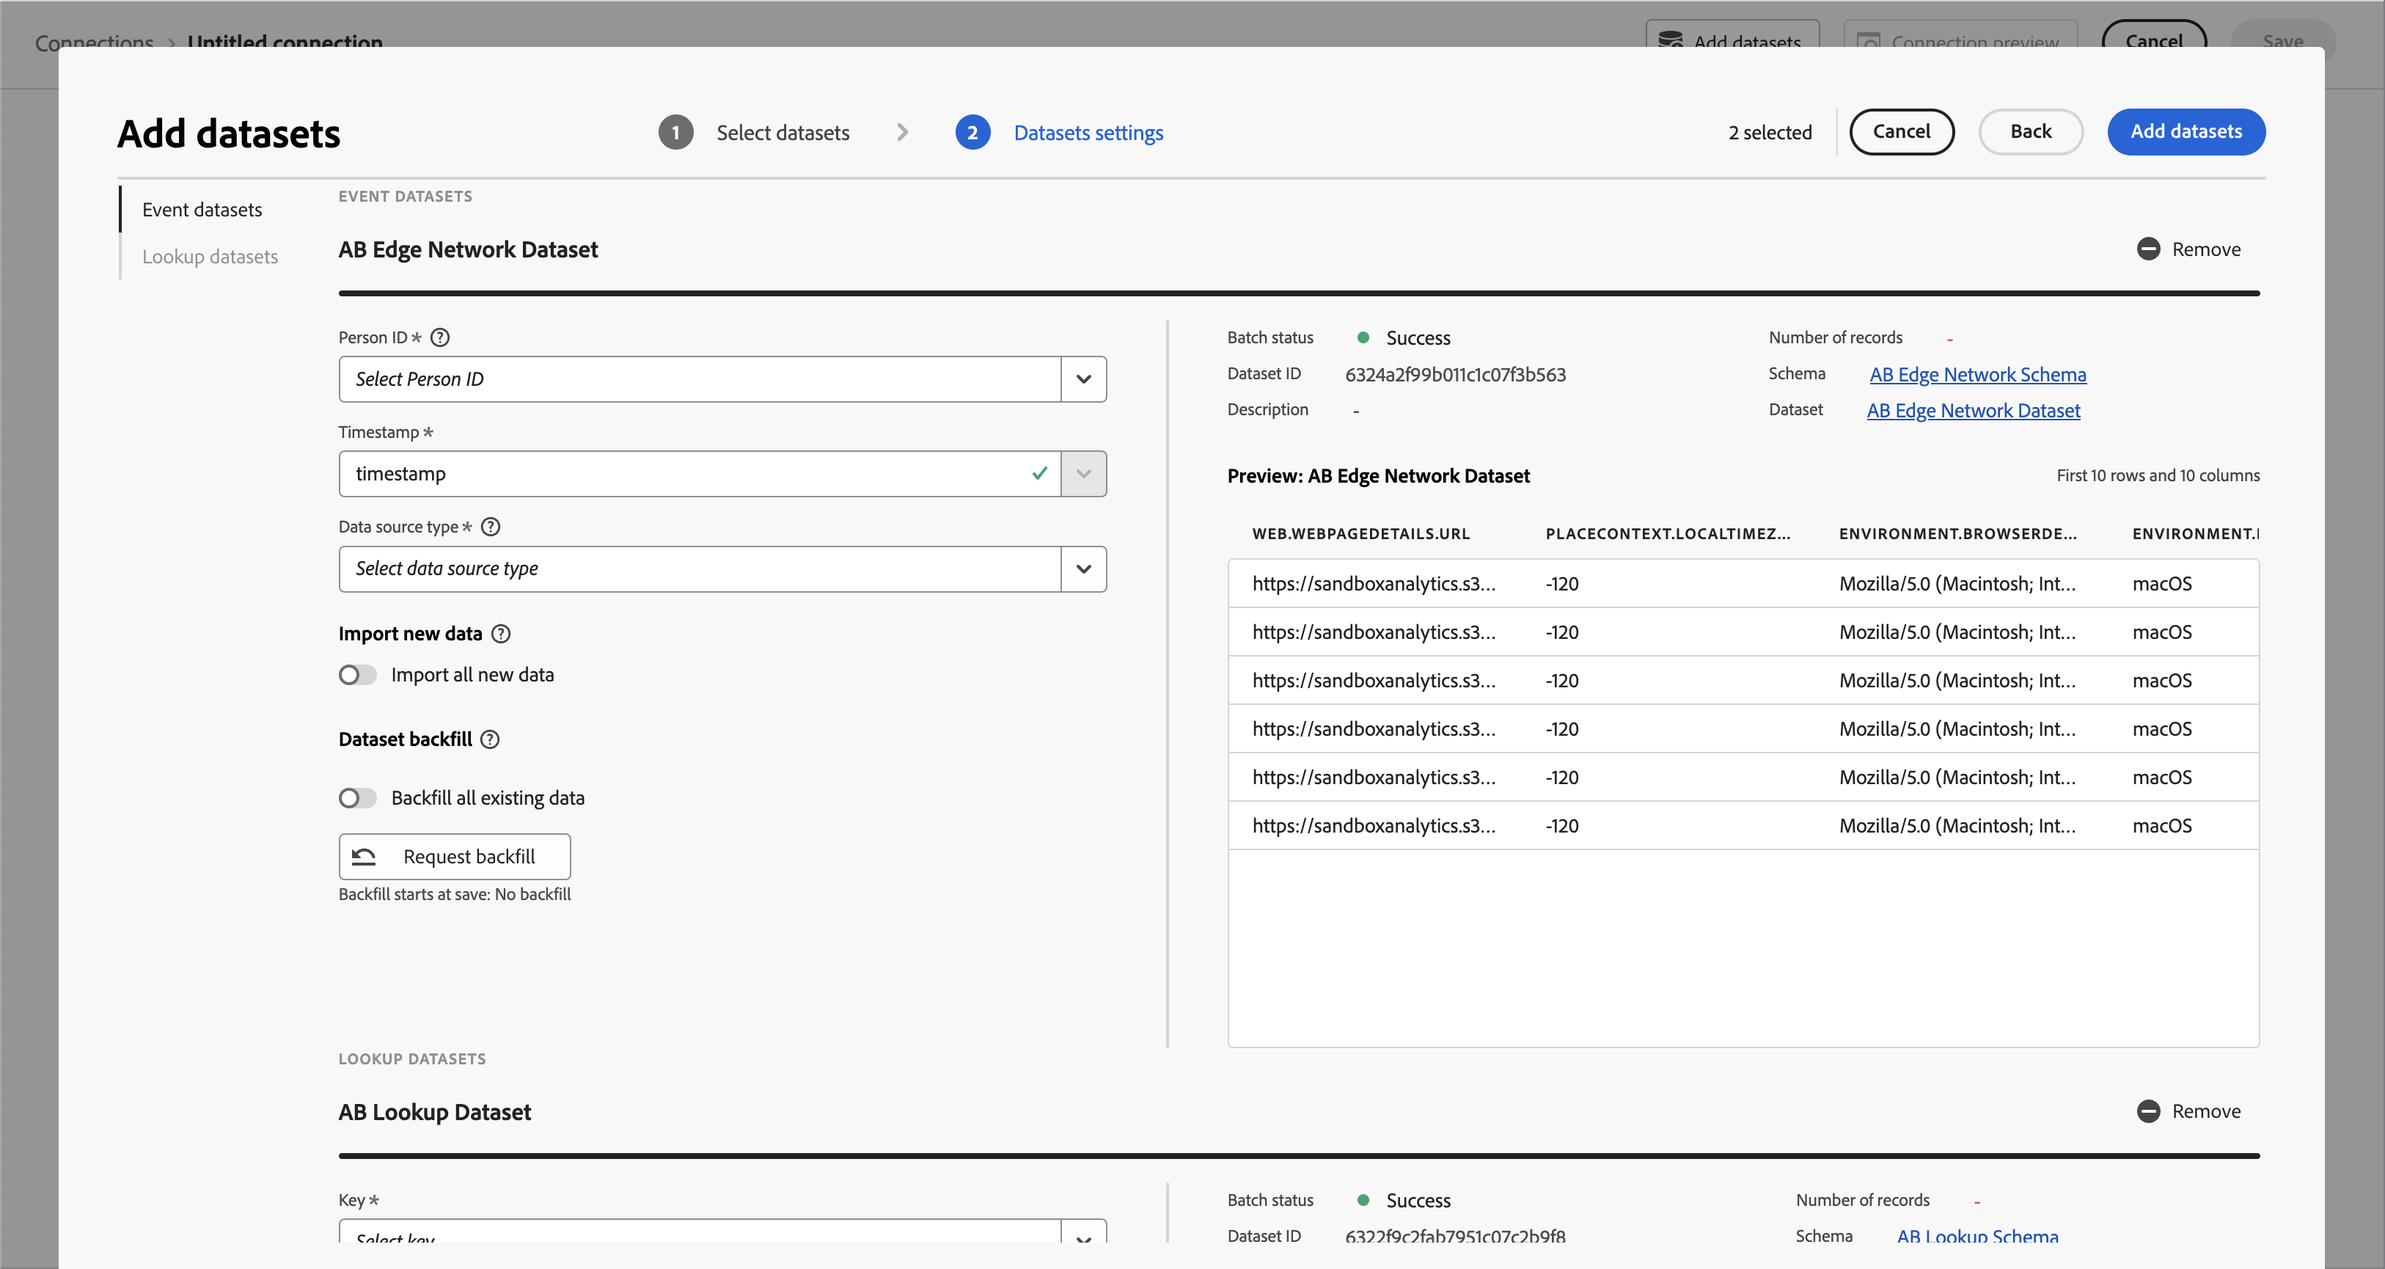
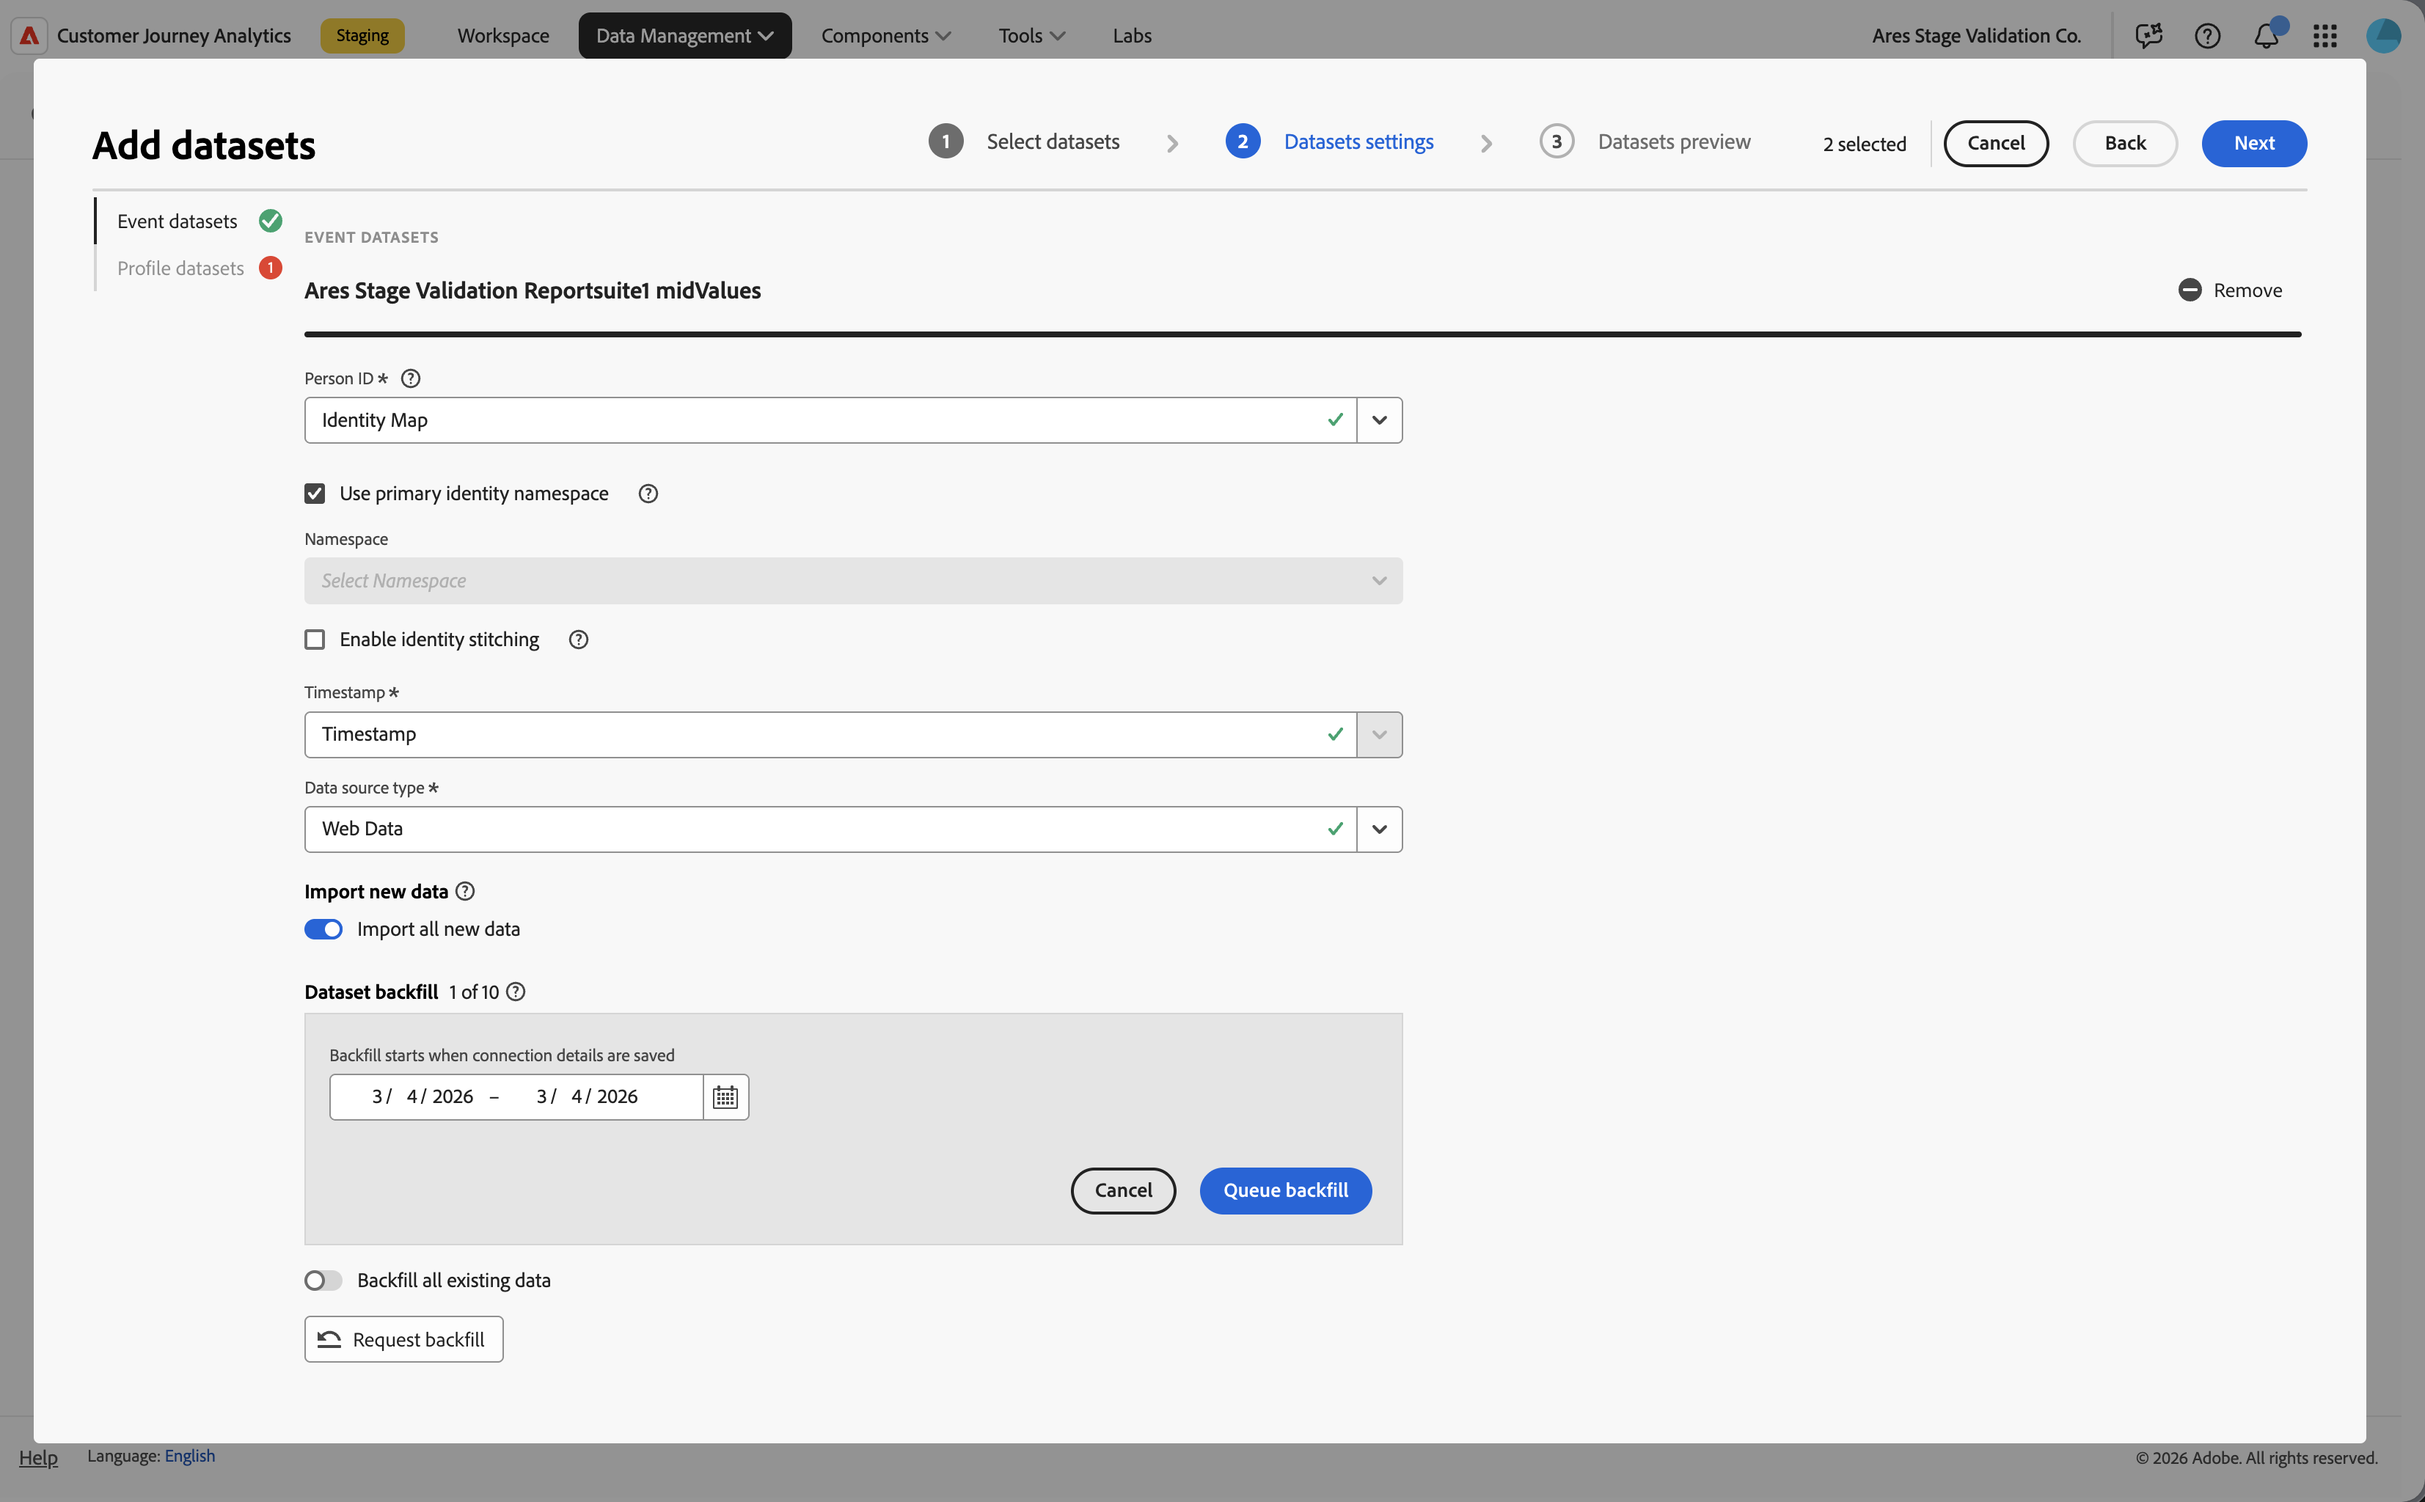
First draft

diff --git a/help/connections/create-connection.md b/help/connections/create-connection.md
@@ -505,6 +505,7 @@ Alternatively, the dataset types listed above, can be based on an ad hoc or rela
 
 You can add one or more Experience Platform datasets when you create or edit a connection. 
 
+#### For person-based connections
 
 1. In **[!UICONTROL Connection]** > **[!UICONTROL _Name of the connection_]** interface, select ![DataAdd](/help/assets/icons/DataAdd.svg) **[!UICONTROL Add datasets]**.
 
@@ -533,25 +534,49 @@ You can add one or more Experience Platform datasets when you create or edit a c
    
 1. Select one or more datasets and select **[!UICONTROL Next]**. At least one event or summary dataset must be part of the connection.
 
-1. Configure the [settings for each of the selected datasets](#dataset-settings), one by one, in the ➋ **[!UICONTROL Datasets settings]** step of the **[!UICONTROL Add datasets]** dialog.
+1. Configure the [settings for each of the selected datasets](#dataset-settings), one by one, in the ➋ **[!UICONTROL Datasets settings]** step of the **[!UICONTROL Add datasets]** dialog. 
 
-    ![Add datasets](assets/add-dataset.png)
+   ![Add datasets](assets/add-dataset.png)
 
-1. Select **[!UICONTROL Add datasets]** to add the configured datasets to the connection. You are notified when you have not provided all required settings for each of the datasets you want to add. 
+   * To remove a dataset from the conection, select ![RemoveCircle](/help/assets/icons/RemoveCircle.svg) **[!UICONTROL Remove]**.
+   * To take a step back, select **[!UICONTROL Back]**.
+   * To cancel adding datasets to a connection, select **[!UICONTROL Cancel]**.
+
+1. You need to specify all required settings for the selectd datasets before you can continue. If required input is missing, you see a red number that indicates how many datasets of a specific type are missing that required input. Required fields that do not have input or a selected value are identified by a ![AlertRed](/help/assets/icons/AlertRed.svg) and an explanation. Once you have configured all required settings for all datasets, select **[!UICONTROL Next]**.
+1. In ❸ **[!UICONTROL Datasets preview]** you see a preview for each dataset that is based on a simple set of data from recently ingested data.
+
+   ![Preview of a dataset while adding datasets as part of a connection](/help/connections/assets/add-dataset-preview.png)
    
-   Alternatively, you can select **[!UICONTROL Cancel]** to cancel the addition of datasets to the connection. Or select **[!UICONTROL Back]** to step back to the ➊ **[!UICONTROL Select datasets]** step.
+   * To show namespaces for each of the columns in the table, enable **[!UICONTROL Show column namespace]**.
+   * To search in the sample data, use ![Search](/help/assets/icons/Search.svg).
+   * To configure what columns to show, select ![ColumnSetting](/help/assets/icons/ColumnSetting.svg). <br/>In the **[!UICONTROL Customize table]** dialog:
+     1. Select the columns you want to show in the table.
+     1. Select **[!UICONTROL Apply]** to apply the selection, or **[!UICONTROL Cancel]** to cancel the selection.
+   * To display the data for columns that contain array or object data, select **[!UICONTROL Values]**.
 
+   The **[!UICONTROL Dataset info]** pane shows details about the dataset. Select the value for **[!UICONTROL Schema]** or **[!UICONTROL Dataset]** to open the relevant interface in Experience Platform in a new browser tab.  
+
+   * To remove a dataset from the conection, select ![RemoveCircle](/help/assets/icons/RemoveCircle.svg) **[!UICONTROL Remove]**.
+   * To take a step back, select **[!UICONTROL Back]**.
+   * To cancel adding datasets to a connection, select **[!UICONTROL Cancel]**.
+
+   
+1. Select **[!UICONTROL Add datasets]** to add the configured datasets to the connection.
+   
 
 ### Edit a dataset
 
 To edit a dataset that is already configured for a connection, in the **[!UICONTROL Connections]** > **[!UICONTROL _Name of the connection_]** interface:
 
+1. Select ![Edit](/help/assets/icons/Edit.svg) **[!UICONTROL Edit connection]**.
 1. Select ![More](/help/assets/icons/More.svg) for the dataset listed in the dataset table that you want to edit 
 1. Select ![Edit](/help/assets/icons/Edit.svg) **[!UICONTROL Edit dataset]**.
 
-1. Configure the [dataset settings](#dataset-settings) in the **[!UICONTROL Edit dataset: _Dataset name_]** dialog.
+1. In ❶ **[!UICONTROL Dataset settings]**, configure the [dataset settings](#dataset-settings) in the **[!UICONTROL Edit dataset: _Dataset name_]** dialog.
 
    ![Edit dataset](assets/edit-dataset.png)
+
+   If you make changes, ensure you specify all required settings for the dataset before you continue. If required input is missing, you cannot continue. Required fields that do not have input or a selected value are identified by a ![AlertRed](/help/assets/icons/AlertRed.svg) and an explanation. 
 
    >[!NOTE]
    >
@@ -560,6 +585,27 @@ To edit a dataset that is already configured for a connection, in the **[!UICONT
    >1. Delete the existing ad hoc or relational dataset from the connection.
    >1. Add the same dataset with updated settings to the connection.
    >
+
+   To remove the dataset from the connection, select ![RemoveCircle](/help/assets/icons/RemoveCircle.svg) **[!UICONTROL Remove]**.
+   
+   Once you have configured all required settings for the dataset, select **[!UICONTROL Next]**.
+
+1. In ❷ **[!UICONTROL Datasets preview]** you see a preview for each dataset that is based on a simple set of data from recently ingested data.
+
+   ![Preview of a dataset while adding datasets as part of a connection](/help/connections/assets/add-dataset-preview.png)
+   
+   * To show namespaces for each of the columns in the table, enable **[!UICONTROL Show column namespace]**.
+   * To search in the sample data, use ![Search](/help/assets/icons/Search.svg).
+   * To configure what columns to show, select ![ColumnSetting](/help/assets/icons/ColumnSetting.svg). <br/>In the **[!UICONTROL Customize table]** dialog:
+     1. Select the columns you want to show in the table.
+     1. Select **[!UICONTROL Apply]** to apply the selection, or **[!UICONTROL Cancel]** to cancel the selection.
+   * To display the data for columns that contain array or object data, select **[!UICONTROL Values]**.
+
+   The **[!UICONTROL Dataset info]** pane shows details about the dataset. Select the value for **[!UICONTROL Schema]** or **[!UICONTROL Dataset]** to open the relevant interface in Experience Platform in a new browser tab.  
+
+   * To remove a dataset from the conection, select ![RemoveCircle](/help/assets/icons/RemoveCircle.svg) **[!UICONTROL Remove]**.
+   * To take a step back, select **[!UICONTROL Back]**.
+   * To cancel adding datasets to a connection, select **[!UICONTROL Cancel]**.
 
 1. Select **[!UICONTROL Apply]** to apply the dataset settings. Select **[!UICONTROL Cancel]** to cancel.
 
